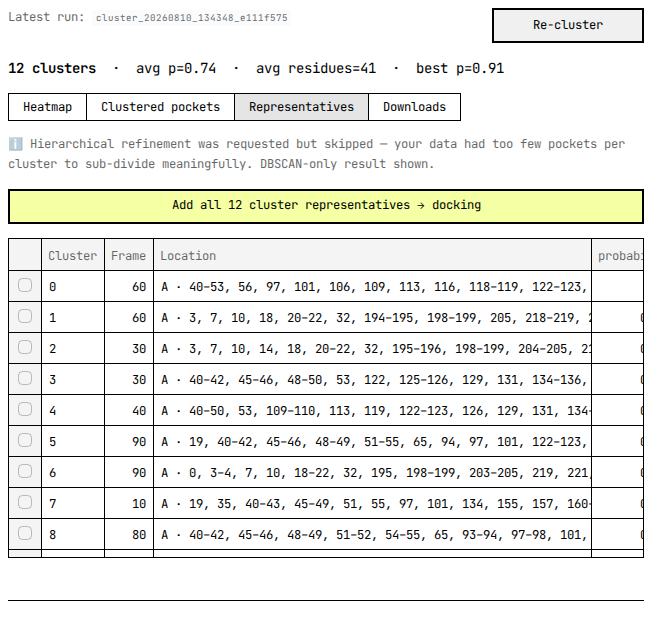
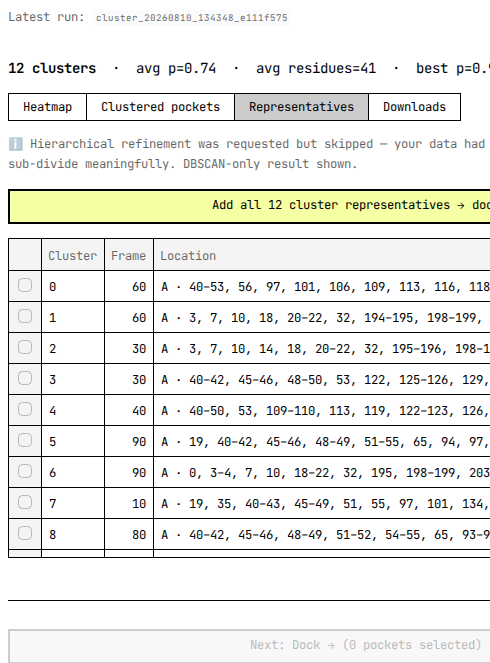
docs: address review findings on Task 7 screenshots
- Add the backbone+CB topology caveat to the Dock section prose (it was
  missing from the deliverable despite the task-7 report claiming it was
  flagged in the alt text — that claim was false and is corrected in the
  report).
- Fix the "Add all N cluster representatives" prose: it renders above
  the Representatives table, not "at the foot" of the tab, matching
  panels/cluster.py and the screenshot itself.
- Reconcile the two runtimes now visible on the page: the facts-block
  13s figure and the landing screenshot's own "~1 min" button copy.
- Restructure the Dock image into a figure/figcaption so alt text
  carries only what a sighted reader takes from the image; capture
  provenance and the quoted app caption move to visible prose. Trim
  alt text on the other three images.
- Recapture 03-cluster.png at a wider viewport (read-only re-view of
  the same completed job, no new job submitted) so the probability
  column isn't cut off; correct its alt text's row count.

Changed region(s): [[0.0, 0.0, 1.0, 0.9194], [0.0, 0.95, 0.9796, 1.0], [0.0, 0.0, 0.5816, 0.0306]]

diff --git a/static/tutorial/index.html b/static/tutorial/index.html
@@ -190,7 +190,10 @@ each pocket appeared in, plus binding scores for the ligands you tried.</p>
   <dd>13 seconds, end to end, for the bundled trypsin example on an
   otherwise-idle fast pool — measured 2026-08-10 from job
   <code>find_pockets_20260810_131454_5b46d71c</code>'s own submission
-  timestamp to its completion update. A busier pool will be slower.</dd>
+  timestamp to its completion update. A busier pool will be slower; the
+  landing page's own "~1 min" button copy (screenshot below) is a
+  conservative headline figure for that reason, not a different
+  measurement.</dd>
   <dt>You end up with</dt>
   <dd>Ranked pockets per frame · cluster representatives · SMINA scores · downloadable poses</dd>
 </dl>
@@ -223,7 +226,7 @@ and <code>examples/trypsin/trajectory.xtc</code> is 500,352 bytes. The deployed
 instance reads that pair from <code>/app/examples/trypsin</code>, set as
 <code>EXAMPLE_TRAJECTORY_DIR</code>; when the directory is missing the button hides
 itself rather than failing on you.</p>
-<p><img alt="The PocketHunter Suite landing page, showing the Start new analysis and Try with example trajectory buttons on the left and the Open an existing analysis form on the right, with the FAST/DOCK pool-occupancy indicator in the header" src="img/01-landing.png" /></p>
+<p><img alt="The landing page: Start new analysis and Try with example trajectory on the left, Open an existing analysis on the right" src="img/01-landing.png" /></p>
 <h2 id="sessions">Sessions</h2>
 <p>There is no sign-up. Pressing <strong>Start new analysis</strong> mints a workspace and
 lands you on <code>https://pockethunter.bio-cloud.site/?s=&lt;code&gt;&amp;edit=&lt;secret&gt;</code>,
@@ -294,7 +297,7 @@ in steps of 0.05 and starting at 0.0, and a <strong>Confidence</strong> multisel
 that starts with all three badges ticked. Both filter the table and
 nothing else. No job re-runs, no row is deleted, and the caption
 underneath keeps reporting how many of the total are on screen.</p>
-<p><img alt="The Find Pockets results panel for the trypsin worked example: a stats strip reading 79 pockets, avg p=0.27, 8 high-confidence, best p=0.91, and the pocket table with its Frame, pocket_index, probability, num_residues and Confidence columns" src="img/02-find-pockets.png" /></p>
+<p><img alt="The Find Pockets results panel: 79 pockets, avg p=0.27, 8 high-confidence, best p=0.91, above the ranked pocket table" src="img/02-find-pockets.png" /></p>
 <p>Click a row and the Mol* viewer paints that pocket's residues and jumps
 to the frame it was found in. A pocket with fewer than three residues
 gets a warning instead of a surface — below three points there is no mesh
@@ -362,11 +365,11 @@ hierarchical refinement ran, a K spinner per cluster: K=1 keeps the
 DBSCAN medoid, K of 2 or more re-cuts that cluster's dendrogram into that
 many sub-representatives, up to ten or the member count, whichever is
 smaller. <strong>Downloads</strong> holds the CSVs.</p>
-<p><strong>Add all N cluster representatives → docking</strong>, at the foot of the
-Representatives tab, is the normal handoff to the next stage — one
-receptor per displayed row, sub-cluster representatives grouped under
-their DBSCAN parent.</p>
-<p><img alt="The Cluster Representatives table for the trypsin worked example: 12 rows, one per cluster, each with its Frame and lining-residue Location, and the Add all 12 cluster representatives → docking button above it" src="img/03-cluster.png" /></p>
+<p><strong>Add all N cluster representatives → docking</strong>, above the Representatives
+table, is the normal handoff to the next stage — one receptor per
+displayed row, sub-cluster representatives grouped under their DBSCAN
+parent.</p>
+<p><img alt="The Add all 12 cluster representatives → docking button above a table listing the first nine of twelve clusters, with each row's Frame and lining residues" src="img/03-cluster.png" /></p>
 <p>When DBSCAN finds nothing the panel says so and names the two usual
 causes: <code>min_prob</code> filtered out too much, or too few pockets survived to
 form a dense group. Lowering the threshold and re-running Find pockets at
@@ -404,7 +407,18 @@ affinity among them. Rows are ligands, columns are the receptor
 conformations you selected. That shape is the payoff for having run a
 trajectory at all — one ligand scored against an ensemble of
 conformations rather than against a single crystal structure.</p>
-<p><img alt="The Dock score grid for the trypsin worked example: one ligand row (benzamidine, trypsin's classic small-molecule inhibitor — not part of the bundled dataset, uploaded separately for this capture) against nine of its twelve receptor columns, five cells showing real binding affinities in kcal/mol and the rest reading None where that ligand-receptor pair failed to dock — the caption above reads &quot;Docking complete — 12/12 pairs · 8/12 ligand-receptor pairs scored&quot;, the same partial-failure pattern described below in Troubleshooting" src="img/04-dock.png" /></p>
+<p>One caveat about the numbers below: the bundled trypsin topology carries
+backbone atoms plus CB only, not full side chains. Expect affinities a
+little weaker, and pairs a little more likely to fail outright, than the
+same ligand would see against an all-atom structure of the same protein.</p>
+<figure>
+<p><img alt="One ligand scored against nine of twelve receptor columns: five real affinities near −4.5 kcal/mol, four cells reading None where that pair failed to dock" src="img/04-dock.png" /></p>
+<figcaption>Benzamidine — trypsin's classic small-molecule inhibitor —
+uploaded separately for this capture; it is not part of the bundled
+trypsin dataset. The full run reports "Docking complete — 12/12 pairs ·
+8/12 ligand-receptor pairs scored," the same partial-failure pattern
+covered in Troubleshooting below.</figcaption>
+</figure>
 <p>Four columns on the right collapse each row to one number, and <strong>Rank
 ligands by</strong> decides which of them sorts the grid. <strong>Mean</strong> and
 <strong>Median</strong> average that ligand's per-receptor affinities in kcal/mol,

diff --git a/docs/tutorial/tutorial.md b/docs/tutorial/tutorial.md
@@ -66,7 +66,10 @@ Each stage above links to its section.
   <dd>13 seconds, end to end, for the bundled trypsin example on an
   otherwise-idle fast pool — measured 2026-08-10 from job
   <code>find_pockets_20260810_131454_5b46d71c</code>'s own submission
-  timestamp to its completion update. A busier pool will be slower.</dd>
+  timestamp to its completion update. A busier pool will be slower; the
+  landing page's own "~1 min" button copy (screenshot below) is a
+  conservative headline figure for that reason, not a different
+  measurement.</dd>
   <dt>You end up with</dt>
   <dd>Ranked pockets per frame · cluster representatives · SMINA scores · downloadable poses</dd>
 </dl>
@@ -103,7 +106,7 @@ instance reads that pair from `/app/examples/trypsin`, set as
 `EXAMPLE_TRAJECTORY_DIR`; when the directory is missing the button hides
 itself rather than failing on you.
 
-![The PocketHunter Suite landing page, showing the Start new analysis and Try with example trajectory buttons on the left and the Open an existing analysis form on the right, with the FAST/DOCK pool-occupancy indicator in the header](img/01-landing.png)
+![The landing page: Start new analysis and Try with example trajectory on the left, Open an existing analysis on the right](img/01-landing.png)
 
 ## Sessions {: #sessions }
 
@@ -186,7 +189,7 @@ that starts with all three badges ticked. Both filter the table and
 nothing else. No job re-runs, no row is deleted, and the caption
 underneath keeps reporting how many of the total are on screen.
 
-![The Find Pockets results panel for the trypsin worked example: a stats strip reading 79 pockets, avg p=0.27, 8 high-confidence, best p=0.91, and the pocket table with its Frame, pocket_index, probability, num_residues and Confidence columns](img/02-find-pockets.png)
+![The Find Pockets results panel: 79 pockets, avg p=0.27, 8 high-confidence, best p=0.91, above the ranked pocket table](img/02-find-pockets.png)
 
 Click a row and the Mol\* viewer paints that pocket's residues and jumps
 to the frame it was found in. A pocket with fewer than three residues
@@ -264,12 +267,12 @@ DBSCAN medoid, K of 2 or more re-cuts that cluster's dendrogram into that
 many sub-representatives, up to ten or the member count, whichever is
 smaller. **Downloads** holds the CSVs.
 
-**Add all N cluster representatives → docking**, at the foot of the
-Representatives tab, is the normal handoff to the next stage — one
-receptor per displayed row, sub-cluster representatives grouped under
-their DBSCAN parent.
+**Add all N cluster representatives → docking**, above the Representatives
+table, is the normal handoff to the next stage — one receptor per
+displayed row, sub-cluster representatives grouped under their DBSCAN
+parent.
 
-![The Cluster Representatives table for the trypsin worked example: 12 rows, one per cluster, each with its Frame and lining-residue Location, and the Add all 12 cluster representatives → docking button above it](img/03-cluster.png)
+![The Add all 12 cluster representatives → docking button above a table listing the first nine of twelve clusters, with each row's Frame and lining residues](img/03-cluster.png)
 
 When DBSCAN finds nothing the panel says so and names the two usual
 causes: `min_prob` filtered out too much, or too few pockets survived to
@@ -314,7 +317,22 @@ conformations you selected. That shape is the payoff for having run a
 trajectory at all — one ligand scored against an ensemble of
 conformations rather than against a single crystal structure.
 
-![The Dock score grid for the trypsin worked example: one ligand row (benzamidine, trypsin's classic small-molecule inhibitor — not part of the bundled dataset, uploaded separately for this capture) against nine of its twelve receptor columns, five cells showing real binding affinities in kcal/mol and the rest reading None where that ligand-receptor pair failed to dock — the caption above reads "Docking complete — 12/12 pairs · 8/12 ligand-receptor pairs scored", the same partial-failure pattern described below in Troubleshooting](img/04-dock.png)
+One caveat about the numbers below: the bundled trypsin topology carries
+backbone atoms plus CB only, not full side chains. Expect affinities a
+little weaker, and pairs a little more likely to fail outright, than the
+same ligand would see against an all-atom structure of the same protein.
+
+<figure markdown="1">
+
+![One ligand scored against nine of twelve receptor columns: five real affinities near −4.5 kcal/mol, four cells reading None where that pair failed to dock](img/04-dock.png)
+
+<figcaption>Benzamidine — trypsin's classic small-molecule inhibitor —
+uploaded separately for this capture; it is not part of the bundled
+trypsin dataset. The full run reports "Docking complete — 12/12 pairs ·
+8/12 ligand-receptor pairs scored," the same partial-failure pattern
+covered in Troubleshooting below.</figcaption>
+
+</figure>
 
 Four columns on the right collapse each row to one number, and **Rank
 ligands by** decides which of them sorts the grid. **Mean** and
